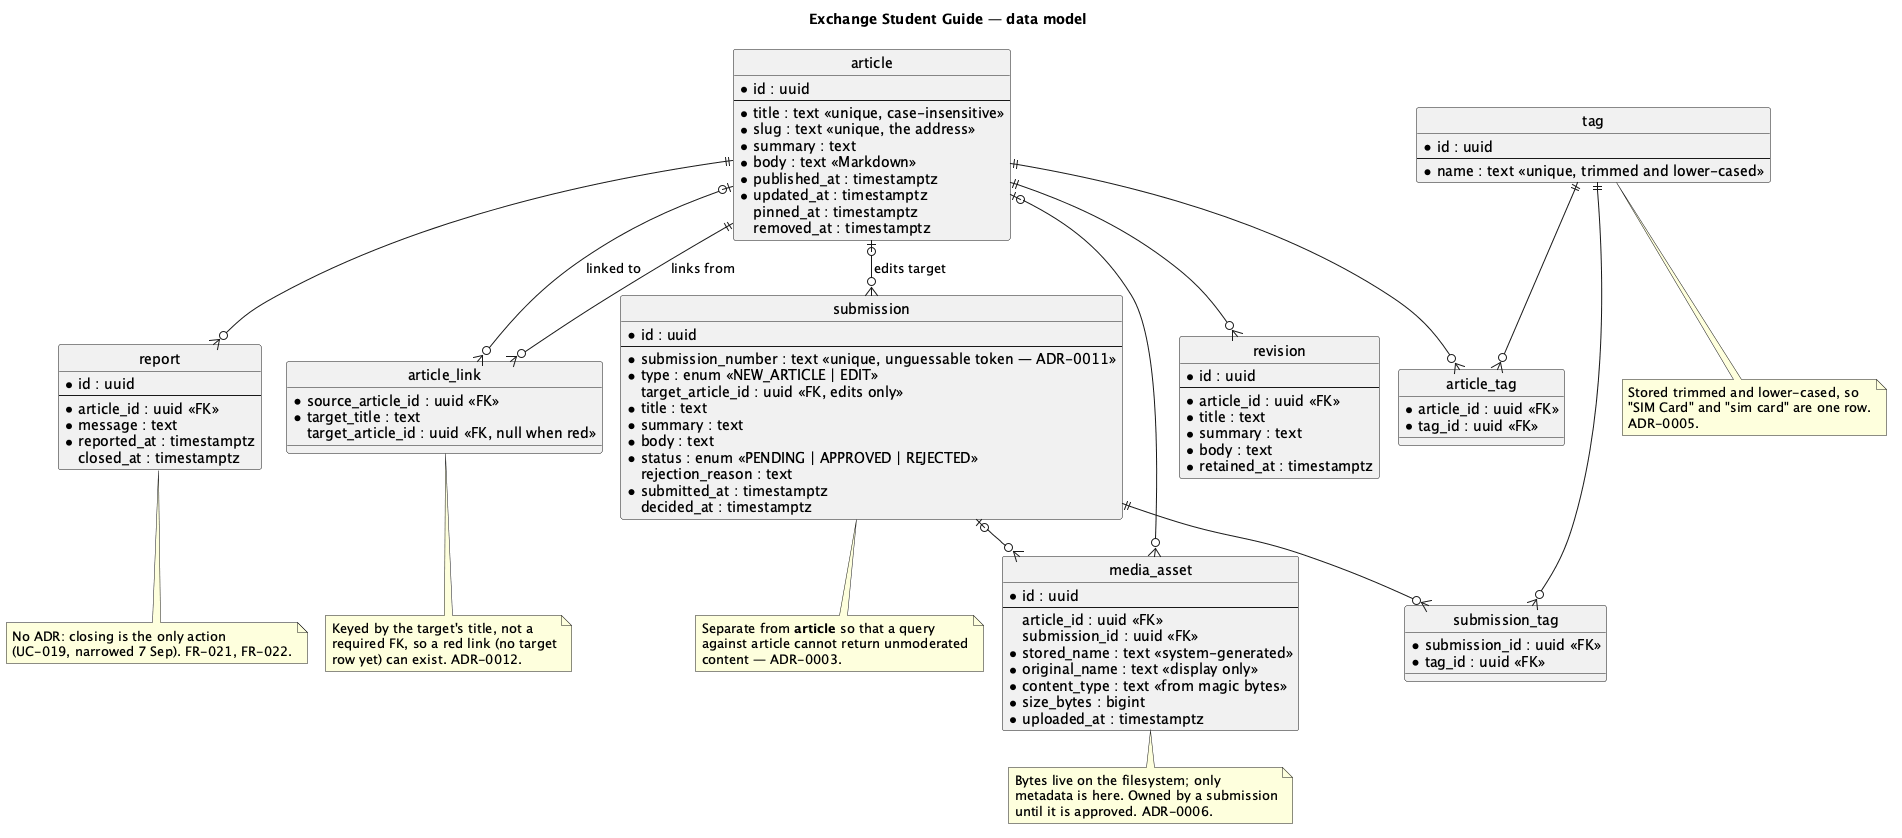
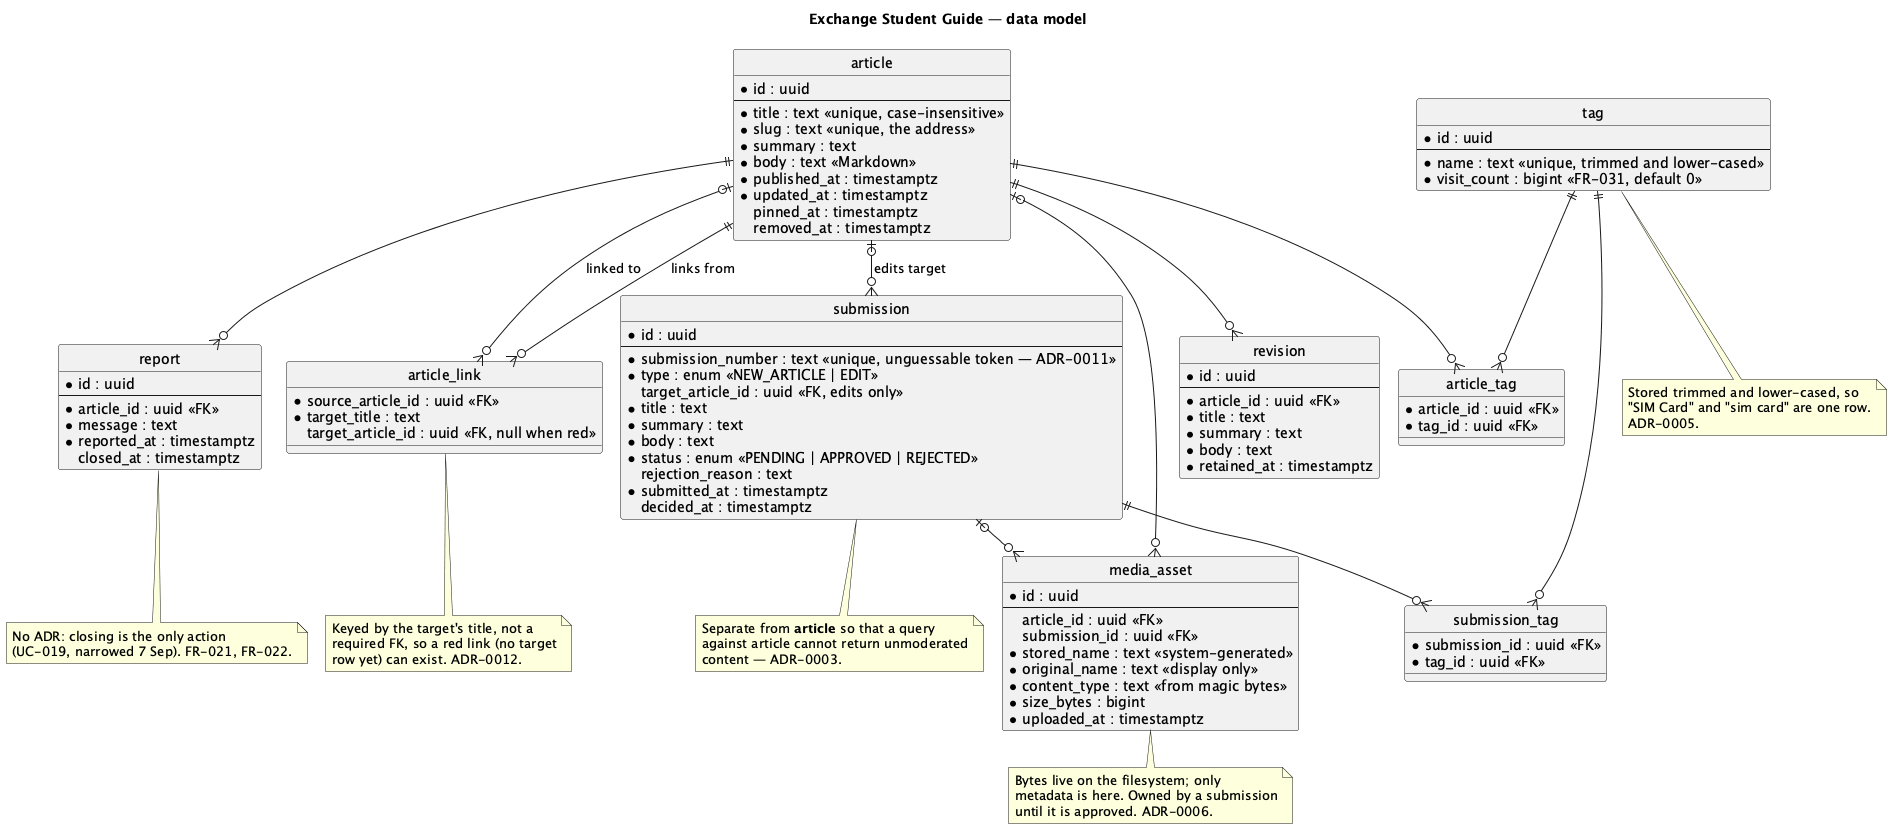
feat(FEAT-015): tags ordered by visits, each with its article count [FR-031]
V7 adds tag.visit_count. A tag page that answers 200 adds one visit to every tag behind its address
in a single atomic UPDATE; a 404 counts nothing. The landing page reads each tag's name, its number
of live articles and its order (visits, then name) in one grouped query, so its query count is
unchanged. The count is shown beside the name, with visually hidden "articles" for screen readers.

Five tests were red first (no column, no count shown) and are green; 374 pass on H2 and on
PostgreSQL, and the browser profile's layout and axe checks pass.

Changed region(s): [[0.7445, 0.1551, 0.9306, 0.2482], [0.8065, 0.1241, 0.8686, 0.1551]]

diff --git a/app/src/main/resources/templates/home/Landing.html b/app/src/main/resources/templates/home/Landing.html
@@ -48,7 +48,8 @@
     <section th:if="${!landing.tags.isEmpty()}">
       <h2 class="section-title">Tags</h2>
       <ul class="tag-cloud">
-        <li class="chip" th:classappend="${tag.path} ? 'chip-link'" th:each="tag : ${landing.tags}"><a th:if="${tag.path}" th:href="@{${tag.path}}" th:text="${tag.name}">tag</a><th:block th:unless="${tag.path}" th:text="${tag.name}">tag</th:block></li>
+        <!-- FR-031: most visited first; the number is how many articles carry the tag. -->
+        <li class="chip" th:classappend="${tag.path} ? 'chip-link'" th:each="tag : ${landing.tags}"><a th:if="${tag.path}" th:href="@{${tag.path}}"><span th:text="${tag.name}">tag</span> <span class="chip-count" th:text="${tag.articles}">3</span><span class="visually-hidden" th:text="${tag.articles == 1} ? ' article' : ' articles'"> articles</span></a><th:block th:unless="${tag.path}"><span th:text="${tag.name}">tag</span> <span class="chip-count" th:text="${tag.articles}">3</span><span class="visually-hidden" th:text="${tag.articles == 1} ? ' article' : ' articles'"> articles</span></th:block></li>
       </ul>
     </section>
   </main>

diff --git a/app/src/main/resources/static/css/site.css b/app/src/main/resources/static/css/site.css
@@ -99,6 +99,8 @@ p a, .article-body a { text-decoration: underline; }
 .section-title { font-size: var(--text-lead); font-weight: 700; margin: var(--space-5) 0 var(--space-3); }
 .empty-note { color: var(--ink-soft); }
 .tag-cloud { display: flex; flex-wrap: wrap; gap: var(--space-2); margin: 0; padding: 0; list-style: none; }
+/* FR-031: how many articles carry the tag, quieter than its name. */
+.chip-count { margin-left: var(--space-1); font-weight: 400; color: var(--ink-soft); }
 
 /* FEAT-007: the results page. Its search box sits on paper, not on the maroon hero, so it needs an
    edge of its own (3:1 against the page, WCAG 1.4.11). */

diff --git a/app/src/test/java/in/ac/iitm/guide/home/LandingControllerTest.java b/app/src/test/java/in/ac/iitm/guide/home/LandingControllerTest.java
@@ -248,7 +248,51 @@ class LandingControllerTest {
                 .doesNotContain("<script>x");
     }
 
+    @Test
+    // trace:FR-031
+    void each_tag_shows_how_many_published_articles_carry_it() throws Exception {
+        publish("Visa Guide", NOW.minusDays(1), null, "visa");
+        publish("Visa Extension", NOW.minusDays(2), null);
+        publish("Old Visa Rules", NOW.minusDays(3), null);
+        carry("Visa Extension", "visa");
+        carry("Old Visa Rules", "visa");
+        jdbc.update("UPDATE article SET removed_at = ? WHERE title = 'Old Visa Rules'", NOW);
+
+        var tags = tagList(landing());
+
+        assertThat(tags).containsPattern(">visa</span>\\s*<span class=\"chip-count\">2<");
+    }
+
+    @Test
+    // trace:FR-031
+    void tags_are_listed_most_visited_first_and_by_name_when_visits_are_equal() throws Exception {
+        publish("Visa Guide", NOW.minusDays(1), null, "admin", "visa", "hostel");
+        jdbc.update("UPDATE tag SET visit_count = 5 WHERE name IN ('visa', 'hostel')");
+
+        var tags = tagList(landing());
+
+        assertThat(tags.indexOf(">hostel<"))
+                .as("hostel: 5 visits, first by name")
+                .isLessThan(tags.indexOf(">visa<"));
+        assertThat(tags.indexOf(">visa<")).as("visa: 5 visits").isLessThan(tags.indexOf(">admin<"));
+    }
+
     // ---- fixtures ----
+
+    /** The landing page's list of tags alone, not the chips on the article cards. */
+    private static String tagList(String page) {
+        var list = page.substring(page.indexOf("class=\"tag-cloud\""));
+        return list.substring(0, list.indexOf("</ul>"));
+    }
+
+    /** A second article carrying a tag the first one created: ADR-0005 keeps one row per name. */
+    private void carry(String title, String tag) {
+        jdbc.update(
+                "INSERT INTO article_tag (article_id, tag_id)"
+                        + " SELECT a.id, t.id FROM article a, tag t WHERE a.title = ? AND t.name = ?",
+                title,
+                tag);
+    }
 
     private String landing() throws Exception {
         return mockMvc.perform(get("/"))

diff --git a/app/src/test/java/in/ac/iitm/guide/taxonomy/TagBrowseTest.java b/app/src/test/java/in/ac/iitm/guide/taxonomy/TagBrowseTest.java
@@ -236,6 +236,43 @@ class TagBrowseTest {
         assertThat(browse("/articles/registering-with-frro")).contains(">!!!<").doesNotContain("href=\"/tags/");
     }
 
+    @Test
+    // trace:FR-031
+    void opening_a_tags_page_counts_a_visit_each_time() throws Exception {
+        publish("Registering with FRRO", NOW, "visa");
+
+        browse("/tags/visa");
+        browse("/tags/VISA");
+
+        assertThat(visitsOf("visa")).isEqualTo(2);
+    }
+
+    @Test
+    // trace:FR-031
+    void a_tag_page_that_answers_404_counts_no_visit() throws Exception {
+        submit("Kodaikanal trip", SubmissionStatus.PENDING, "trips");
+
+        mockMvc.perform(get("/tags/trips")).andExpect(status().isNotFound());
+
+        assertThat(visitsOf("trips")).isZero();
+    }
+
+    @Test
+    // trace:FR-031
+    void every_tag_behind_one_address_counts_the_visit() throws Exception {
+        publish("Registering with FRRO", NOW, "visa/frro");
+        publish("FRRO office hours", NOW, "visa frro");
+
+        browse("/tags/visa-frro");
+
+        assertThat(visitsOf("visa/frro")).isEqualTo(1);
+        assertThat(visitsOf("visa frro")).isEqualTo(1);
+    }
+
+    private long visitsOf(String tag) {
+        return jdbc.queryForObject("SELECT visit_count FROM tag WHERE name = ?", Long.class, tag);
+    }
+
     private String browse(String path) throws Exception {
         return mockMvc.perform(get(path))
                 .andExpect(status().isOk())

diff --git a/app/src/main/java/in/ac/iitm/guide/home/persistence/LandingReadRepository.java b/app/src/main/java/in/ac/iitm/guide/home/persistence/LandingReadRepository.java
@@ -12,6 +12,7 @@ import org.springframework.data.repository.Repository;
  * (ADR-0010). Removed articles are excluded by every query, not filtered afterwards.
  */
 // trace:FR-009
+// trace:FR-031
 public interface LandingReadRepository extends Repository<Article, UUID> {
 
     List<Article> findByPinnedAtIsNotNullAndRemovedAtIsNullOrderByPinnedAtDesc(Pageable page);
@@ -19,6 +20,18 @@ public interface LandingReadRepository extends Repository<Article, UUID> {
     /** Not pinned: a pinned article is shown in the pinned section and not repeated here. */
     List<Article> findByPinnedAtIsNullAndRemovedAtIsNullOrderByPublishedAtDesc(Pageable page);
 
-    @Query("select distinct t.name from Article a join a.tags t where a.removedAt is null order by t.name")
-    List<String> findTagNamesInUse(Pageable page);
+    /**
+     * FR-031: the tags live articles carry, each with how many carry it, most visited first and by
+     * name among equals; one grouped query, so the page's query count does not grow (ADR-0010).
+     */
+    @Query("select t.name as name, count(distinct a.id) as articles from Article a join a.tags t"
+            + " where a.removedAt is null group by t.name, t.visitCount order by t.visitCount desc, t.name")
+    List<TagInUse> findTagsInUse(Pageable page);
+
+    /** A tag as the landing page lists it. */
+    interface TagInUse {
+        String getName();
+
+        long getArticles();
+    }
 }

diff --git a/app/src/main/java/in/ac/iitm/guide/taxonomy/internal/TagBrowseService.java b/app/src/main/java/in/ac/iitm/guide/taxonomy/internal/TagBrowseService.java
@@ -3,6 +3,7 @@ package in.ac.iitm.guide.taxonomy.internal;
 import in.ac.iitm.guide.shared.persistence.Article;
 import in.ac.iitm.guide.taxonomy.TagLink;
 import in.ac.iitm.guide.taxonomy.persistence.TagBrowseRepository;
+import in.ac.iitm.guide.taxonomy.persistence.TagRepository;
 import in.ac.iitm.guide.wikilink.ArticleAddress;
 import java.time.format.DateTimeFormatter;
 import java.util.Locale;
@@ -27,9 +28,18 @@ public class TagBrowseService {
     private static final DateTimeFormatter UPDATED = DateTimeFormatter.ofPattern("d MMM yyyy", Locale.ENGLISH);
 
     private final TagBrowseRepository articles;
+    private final TagRepository tags;
 
-    TagBrowseService(TagBrowseRepository articles) {
+    TagBrowseService(TagBrowseRepository articles, TagRepository tags) {
         this.articles = articles;
+        this.tags = tags;
+    }
+
+    /** FR-031: counted only once the page is known to answer, so a {@code 404} counts nothing. */
+    // trace:FR-031
+    @Transactional
+    public void countVisit(TagPage page) {
+        tags.countVisit(page.names());
     }
 
     /**

diff --git a/app/src/main/java/in/ac/iitm/guide/taxonomy/persistence/TagRepository.java b/app/src/main/java/in/ac/iitm/guide/taxonomy/persistence/TagRepository.java
@@ -4,13 +4,24 @@ import in.ac.iitm.guide.shared.persistence.Tag;
 import java.util.Collection;
 import java.util.List;
 import java.util.UUID;
+import org.springframework.data.jpa.repository.Modifying;
+import org.springframework.data.jpa.repository.Query;
 import org.springframework.data.repository.Repository;
 
-/** The tags of one request in a single query, and a new tag. */
+/** The tags of one request in a single query, a new tag, and a visit to a tag's page. */
 // trace:FR-008
+// trace:FR-031
 public interface TagRepository extends Repository<Tag, UUID> {
 
     List<Tag> findByNameIn(Collection<String> names);
 
     Tag save(Tag tag);
+
+    /**
+     * One visit to every tag behind a page's address (ADR-0017). An increment in the database, not a
+     * read and a write, so two readers opening the page at once both count.
+     */
+    @Modifying
+    @Query("update Tag t set t.visitCount = t.visitCount + 1 where t.name in :names")
+    int countVisit(Collection<String> names);
 }

diff --git a/app/src/main/java/in/ac/iitm/guide/taxonomy/web/TagController.java b/app/src/main/java/in/ac/iitm/guide/taxonomy/web/TagController.java
@@ -6,8 +6,12 @@ import org.springframework.ui.Model;
 import org.springframework.web.bind.annotation.GetMapping;
 import org.springframework.web.bind.annotation.PathVariable;
 
-/** {@code GET /tags/{tag}}: the published articles carrying a tag, most recently updated first. */
+/**
+ * {@code GET /tags/{tag}}: the published articles carrying a tag, most recently updated first. A page
+ * that answers counts one visit to its tags (FR-031, ADR-0017).
+ */
 // trace:FR-008
+// trace:FR-031
 @Controller
 class TagController {
 
@@ -19,7 +23,9 @@ class TagController {
 
     @GetMapping("/tags/{tag}")
     String browse(@PathVariable String tag, Model model) {
-        model.addAttribute("tagPage", tags.browse(tag).orElseThrow(() -> new TagNotFoundException(tag)));
+        var page = tags.browse(tag).orElseThrow(() -> new TagNotFoundException(tag));
+        tags.countVisit(page);
+        model.addAttribute("tagPage", page);
         return "taxonomy/TagBrowse";
     }
 }

diff --git a/app/src/main/java/in/ac/iitm/guide/home/internal/LandingPageService.java b/app/src/main/java/in/ac/iitm/guide/home/internal/LandingPageService.java
@@ -37,9 +37,11 @@ public class LandingPageService {
                 articles.findByPinnedAtIsNotNullAndRemovedAtIsNullOrderByPinnedAtDesc(PageRequest.of(0, PINNED_LIMIT));
         var recent =
                 articles.findByPinnedAtIsNullAndRemovedAtIsNullOrderByPublishedAtDesc(PageRequest.of(0, RECENT_LIMIT));
-        var tags = articles.findTagNamesInUse(PageRequest.of(0, TAG_LIMIT));
-        return new LandingPage(
-                cards(pinned), cards(recent), tags.stream().map(TagLink::of).toList());
+        var tags = articles.findTagsInUse(PageRequest.of(0, TAG_LIMIT)).stream()
+                .map(tag -> new LandingPage.ListedTag(
+                        tag.getName(), TagLink.of(tag.getName()).path(), tag.getArticles()))
+                .toList();
+        return new LandingPage(cards(pinned), cards(recent), tags);
     }
 
     private static List<LandingPage.Card> cards(List<Article> articles) {

diff --git a/app/src/main/java/in/ac/iitm/guide/home/internal/LandingPage.java b/app/src/main/java/in/ac/iitm/guide/home/internal/LandingPage.java
@@ -5,8 +5,14 @@ import java.util.List;
 
 /** What the landing template shows. */
 // trace:FR-009
-public record LandingPage(List<Card> pinned, List<Card> recent, List<TagLink> tags) {
+public record LandingPage(List<Card> pinned, List<Card> recent, List<ListedTag> tags) {
 
     /** One article in a list: enough to choose it, never its body. */
     public record Card(String title, String summary, String path, List<TagLink> tags) {}
+
+    /**
+     * A tag in the list (FR-031): its name and page as {@link TagLink} has them, and how many live
+     * articles carry it. {@code path} is null for a name of only symbols.
+     */
+    public record ListedTag(String name, String path, long articles) {}
 }

diff --git a/app/src/main/java/in/ac/iitm/guide/shared/persistence/Tag.java b/app/src/main/java/in/ac/iitm/guide/shared/persistence/Tag.java
@@ -24,6 +24,10 @@ public class Tag {
     @Column(nullable = false, unique = true)
     private String name;
 
+    /** FR-031: openings of the tag's page, written only by an atomic update (ADR-0017). */
+    @Column(name = "visit_count", nullable = false)
+    private long visitCount;
+
     public UUID getId() {
         return id;
     }
@@ -34,5 +38,9 @@ public class Tag {
 
     public void setName(String name) {
         this.name = name;
+    }
+
+    public long getVisitCount() {
+        return visitCount;
     }
 }

diff --git a/docs/architecture/ui-routes.md b/docs/architecture/ui-routes.md
@@ -95,9 +95,9 @@ the table; `RouteContractTest` fails when it and the controllers disagree, in ei
 | Route | Slice | Template | Form fields | Response codes | Serves |
 |---|---|---|---|---|---|
 | `GET /articles/{title}` | `articleview` | `articleview/Article.html` | — (read only) | `200` published; `404` unapproved / rejected / removed / no match | FR-001 (UC-003), with the article's attached media below the text, each fetched from `GET /media/{id}` ([FEAT-009](../features/FEAT-009-attaching-media-to-a-submission.md)). Also where FR-002 and FR-004 are visible — the body is rendered with wiki links resolved and red links styled inline; neither has a route of its own. And FR-030: the page carries the "Save as PDF" control, which `/js/print.js` turns into the browser's print, and print styles leave the site out; `ArticleController` serves it, so the anchor is there. A signed-in moderator also sees "Remove this article", leading to FR-026's confirmation. FR-006: below the text, "What links here" lists up to 50 live articles linking to this one, from `backlink` (ADR-0016) |
-| `GET /` | `home` | `home/Landing.html` | — | `200` always | FR-009 (UC-007) |
+| `GET /` | `home` | `home/Landing.html` | — | `200` always | FR-009 (UC-007); FR-031: the tags are listed most visited first, by name among equals, each with the number of live articles carrying it |
 | `GET /search?q={query}` | `search` | `search/SearchResults.html` | `q` (text, required) | `200` always, including zero matches; `400` if `q` is missing or blank — an empty query is the landing page's job, and redirecting there silently would hide a broken link from whoever built it; `400` if `q` has more than 50 words as the index's analyzer splits them, which past Lucene's clause limit answered `500` (decided 28 Sep) | FR-007 (UC-001) |
-| `GET /tags/{tag}` | `taxonomy` | `taxonomy/TagBrowse.html` | — | `200` when a published article carries a tag with this address; `404` otherwise, including a tag only a pending or rejected submission or a removed article carries. The address is the tag's name by the article address rule (`wikilink`'s `ArticleAddress`), so `visa/frro` and `visa frro` share `/tags/visa-frro` and a tag of only symbols has none (decided 28 Sep, FEAT-008) | FR-008 (UC-002) |
+| `GET /tags/{tag}` | `taxonomy` | `taxonomy/TagBrowse.html` | — | `200` when a published article carries a tag with this address; `404` otherwise, including a tag only a pending or rejected submission or a removed article carries. The address is the tag's name by the article address rule (`wikilink`'s `ArticleAddress`), so `visa/frro` and `visa frro` share `/tags/visa-frro` and a tag of only symbols has none (decided 28 Sep, FEAT-008) | FR-008 (UC-002); FR-031: a `200` adds one visit to every tag behind the address, so this `GET` writes (ADR-0017), and a `404` writes nothing |
 | `GET /media/{id}` | `media` | — (bytes, not a template) | — | `200` for an asset on a published article; `200` for an asset on a pending or rejected submission **only** with a moderator session; `404` otherwise. `nosniff` always, `Range` supported for video; `Content-Disposition: attachment` for everything but a photo — see [security.md](security.md) | FR-001 (an Article is "…and zero or more attached media assets"), FR-015 ("full text **and any media assets**"), FR-016 (every asset on an article page has a Download link to this route with the `download` attribute, so a photo or a video is saved under its original name too) |
 | `GET /submit` | `contribute` | `contribute/SubmissionForm.html` | — (empty form; fields below belong to the POST) | `200` always | FR-010 (UC-010) — entry point |
 | `POST /submissions` | `contribute` | re-renders `contribute/SubmissionForm.html` on `422` | CSRF token (hidden, required); `title` (text, required, unique among published titles case-insensitively); `summary` (text, required); `body` (markdown textarea, required — may contain `[[Title]]`, stored unchanged per FR-003); `attachment` (file, optional — one photo (JPEG, PNG, WebP), document (PDF) or video (MP4), the type read from the content; NFR-001's size limits; [FEAT-009](../features/FEAT-009-attaching-media-to-a-submission.md)); `tags` (repeatable text, optional; the form shows at least five fields and ignores the empty ones). Sent as `multipart/form-data` | `302` to the confirmation route on success; `422` on a title collision (with the offered link/rename choice) or a rejected attachment; `413` with the empty form and the error when the request is larger than the container accepts, before any field is read | FR-010 (UC-010), FR-003 (UC-012) |
